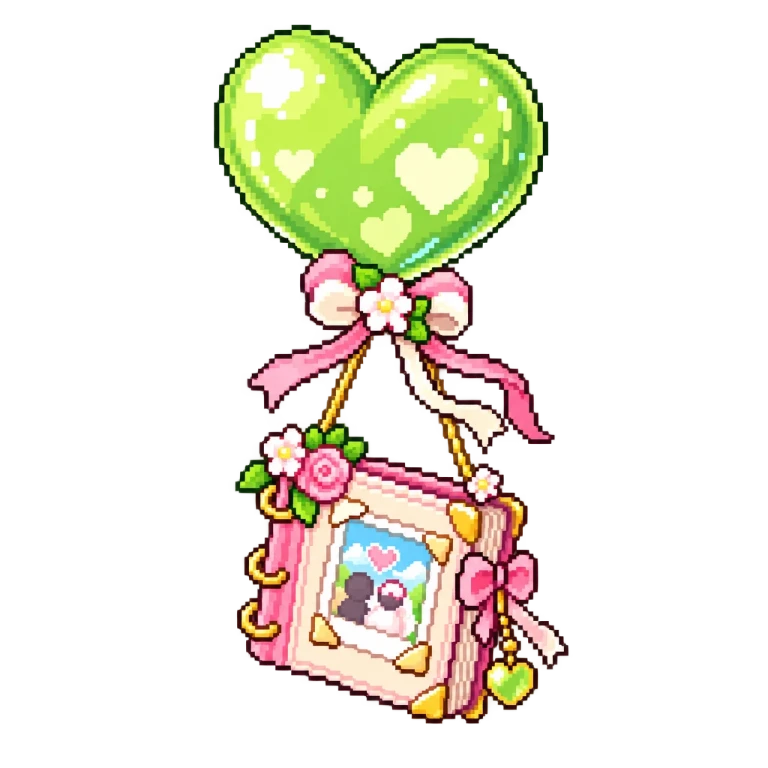
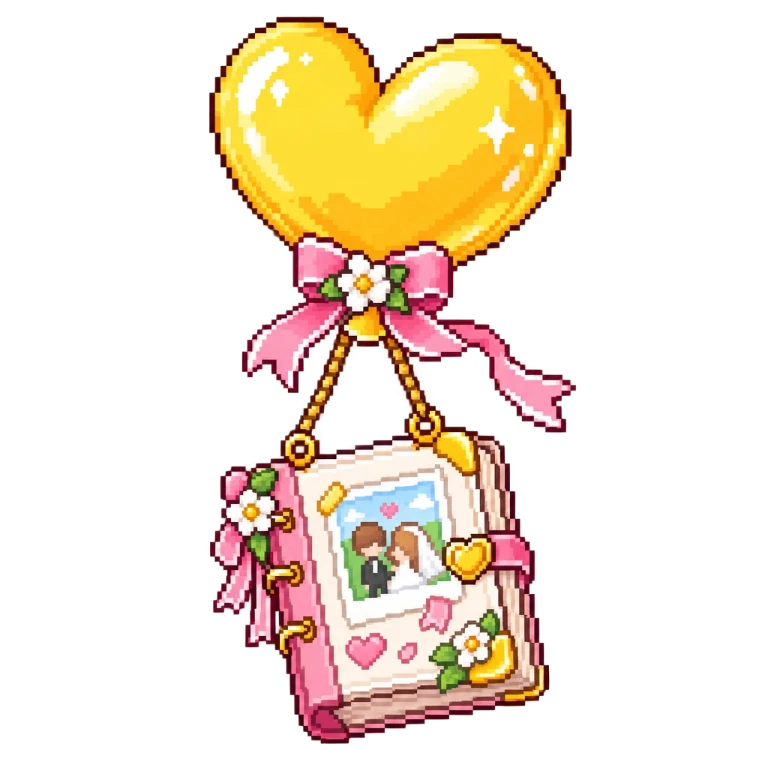
Update walkable map areas (dev mode): 42 floors, 28 climbs; update NPC images album-jeju

diff --git a/js/map-data.js b/js/map-data.js
@@ -91,7 +91,7 @@ const MAP_DATA = {
     "groom": {"name":"경태","shortMsg":"와줘서 고마워!","longMsg":"바쁘신 와중에 저희 결혼식에 와주셔서 진심으로 감사드립니다.\n행복하게 잘 살겠습니다!"},
     "bride": {"name":"민지","shortMsg":"행복하게 살게요","longMsg":"함께해 주셔서 감사합니다.\n오늘 남겨주신 따뜻한 말들 오래오래 간직할게요 :)"},
     "album-studio": {"name":"스튜디오 앨범","shortMsg":"스튜디오 앨범 보고 가세요!","longMsg":"스튜디오 사진 앨범","mode":"fixed","x":552,"y":221,"album":"studio","def":{"desc":"둥둥 떠있는 빨강 하트 풍선에 매달려있는 사진앨범","height":100,"motions":[]}},
-    "album-jeju": {"name":"제주 사진 앨범","shortMsg":"제주도 셀프 스냅도 찍었어요 !","longMsg":"제주도 스냅 사진 앨범","mode":"fixed","x":751,"y":868,"album":"jeju","def":{"desc":"둥둥 떠있는 초록색 하트 풍선에 매달려있는 사진앨범","height":80,"motions":[]}},
+    "album-jeju": {"name":"제주 사진 앨범","shortMsg":"제주도 셀프 스냅도 찍었어요 !","longMsg":"제주도 스냅 사진 앨범","mode":"fixed","x":751,"y":868,"album":"jeju","def":{"desc":"둥둥 떠있는 노란색 하트 풍선에 매달려있는 사진앨범","height":90,"motions":[]}},
     "wedding-car": {"name":"웨딩카","shortMsg":"","longMsg":"분류: 탈것 (캐시)\n옵션: 이동속도 +150%, 행복 +200%\n설명: 경태와 민지가 평생 함께 달릴 인생 파티의 전용 탈것.","mode":"fixed","x":1002,"y":1351},
     "rps-machine": {"shortMsg":"연승 도전! ☕","longMsg":"","mode":"fixed","x":987,"y":1078},
     "chase-police": {"mode":"fixed","x":226,"y":693},
